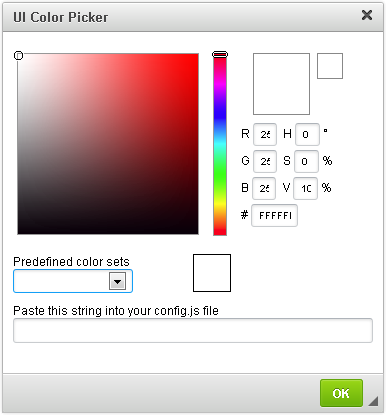
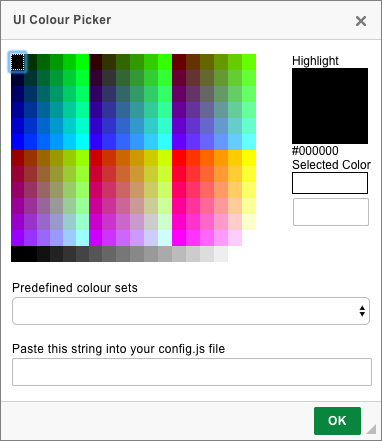
Update screenshots and description.

diff --git a/docs/guide/dev/features/uicolorpicker/README.md b/docs/guide/dev/features/uicolorpicker/README.md
@@ -23,11 +23,11 @@ For licensing, see LICENSE.md.
 
 {@link guide/dev/features/uicolor/README CKEditor UI color can be set manually} in the editor configuration, but adjusting the UI color can be even easier than that. To make use of the second method, your CKEditor build needs to include the optional [UI Color Picker](https://ckeditor.com/cke4/addon/uicolor) plugin.
 
-When the plugin is enabled, it adds a new **UI Color Picker** button (<img class="inline" src="%BASE_PATH%/assets/img/uicolorpicker.png">) to your toolbar. Clicking this button opens the **UI Color Picker** dialog window where you have a few options to find the right color.
+When the plugin is enabled, it adds a new **UI Color Picker** button (<img class="inline" src="%BASE_PATH%/assets/img/uicolorpicker.png">) to your toolbar. Clicking this button opens the **UI Color Picker** dialog window where you find a color palette to help you choose the right color.
 
 {@img assets/img/uicolor_02.png}
 
-For a start, you can click anywhere in the color palette to select a color. You can also choose from one of the pre-defined color sets and fine-tune as you see fit. Last but not least you can simply manually enter an RGB color code or the RGB and HSV values in appropriate fields.
+For a start, you can click anywhere in the color palette to select a color. You can also choose one of the pre-defined color sets and fine-tune it as you see fit. Last but not least you can simply manually enter an RGB color code in appropriate field.
 
 A nice feature of this tool is that it offers instant preview of the selected color, so testing your changes is really quick.
 
